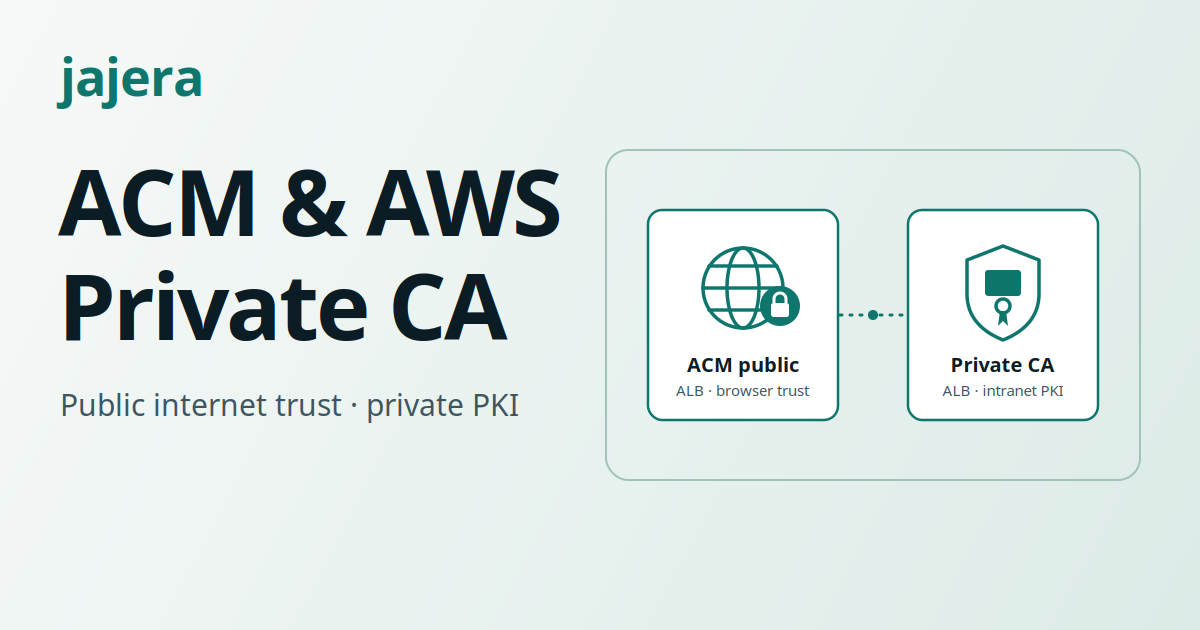
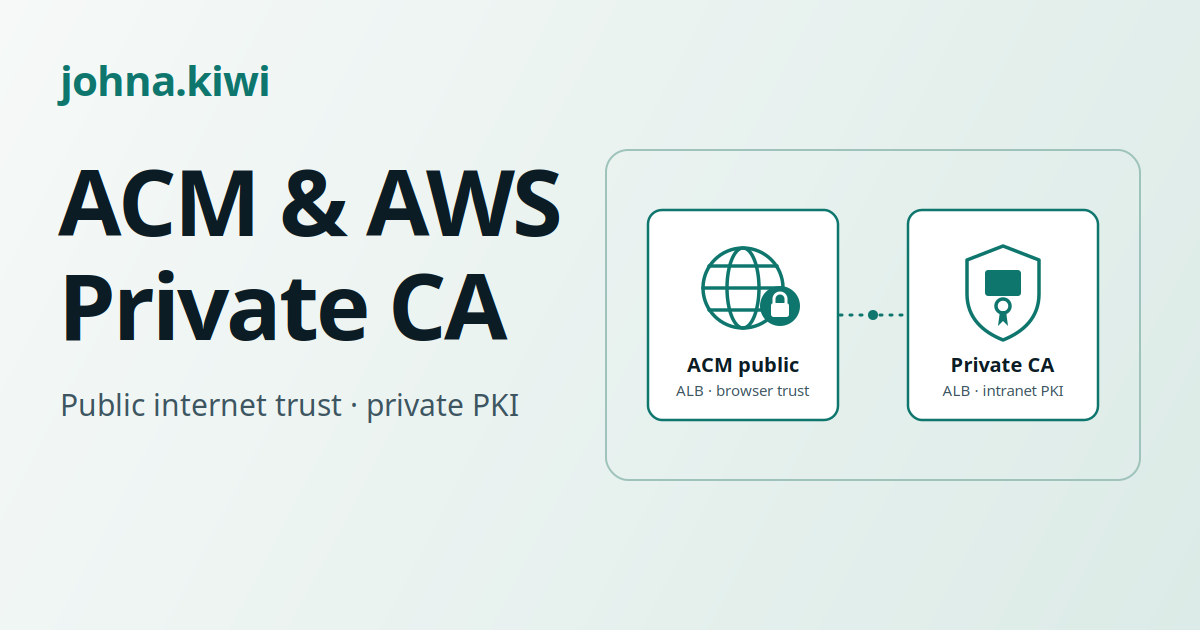
fix: brand og image and landing kicker as johna.kiwi (#6)
Replace the jajera GitHub-org wordmark with johna.kiwi so social
preview and home match the public site domain.

Changed region(s): [[0.0308, 0.0905, 0.2467, 0.181]]

diff --git a/docs/index.md b/docs/index.md
@@ -8,7 +8,7 @@ description: >-
 ---
 
 <div class="conduit-hero">
-  <p class="conduit-kicker">jajera · acm-public-vs-private-ca-walkthrough</p>
+  <p class="conduit-kicker">johna.kiwi · acm-public-vs-private-ca-walkthrough</p>
   <h1>ACM and Private CA</h1>
   <p class="conduit-lede">
     Public TLS and private TLS are different jobs. This lab runs both in one VPC:
